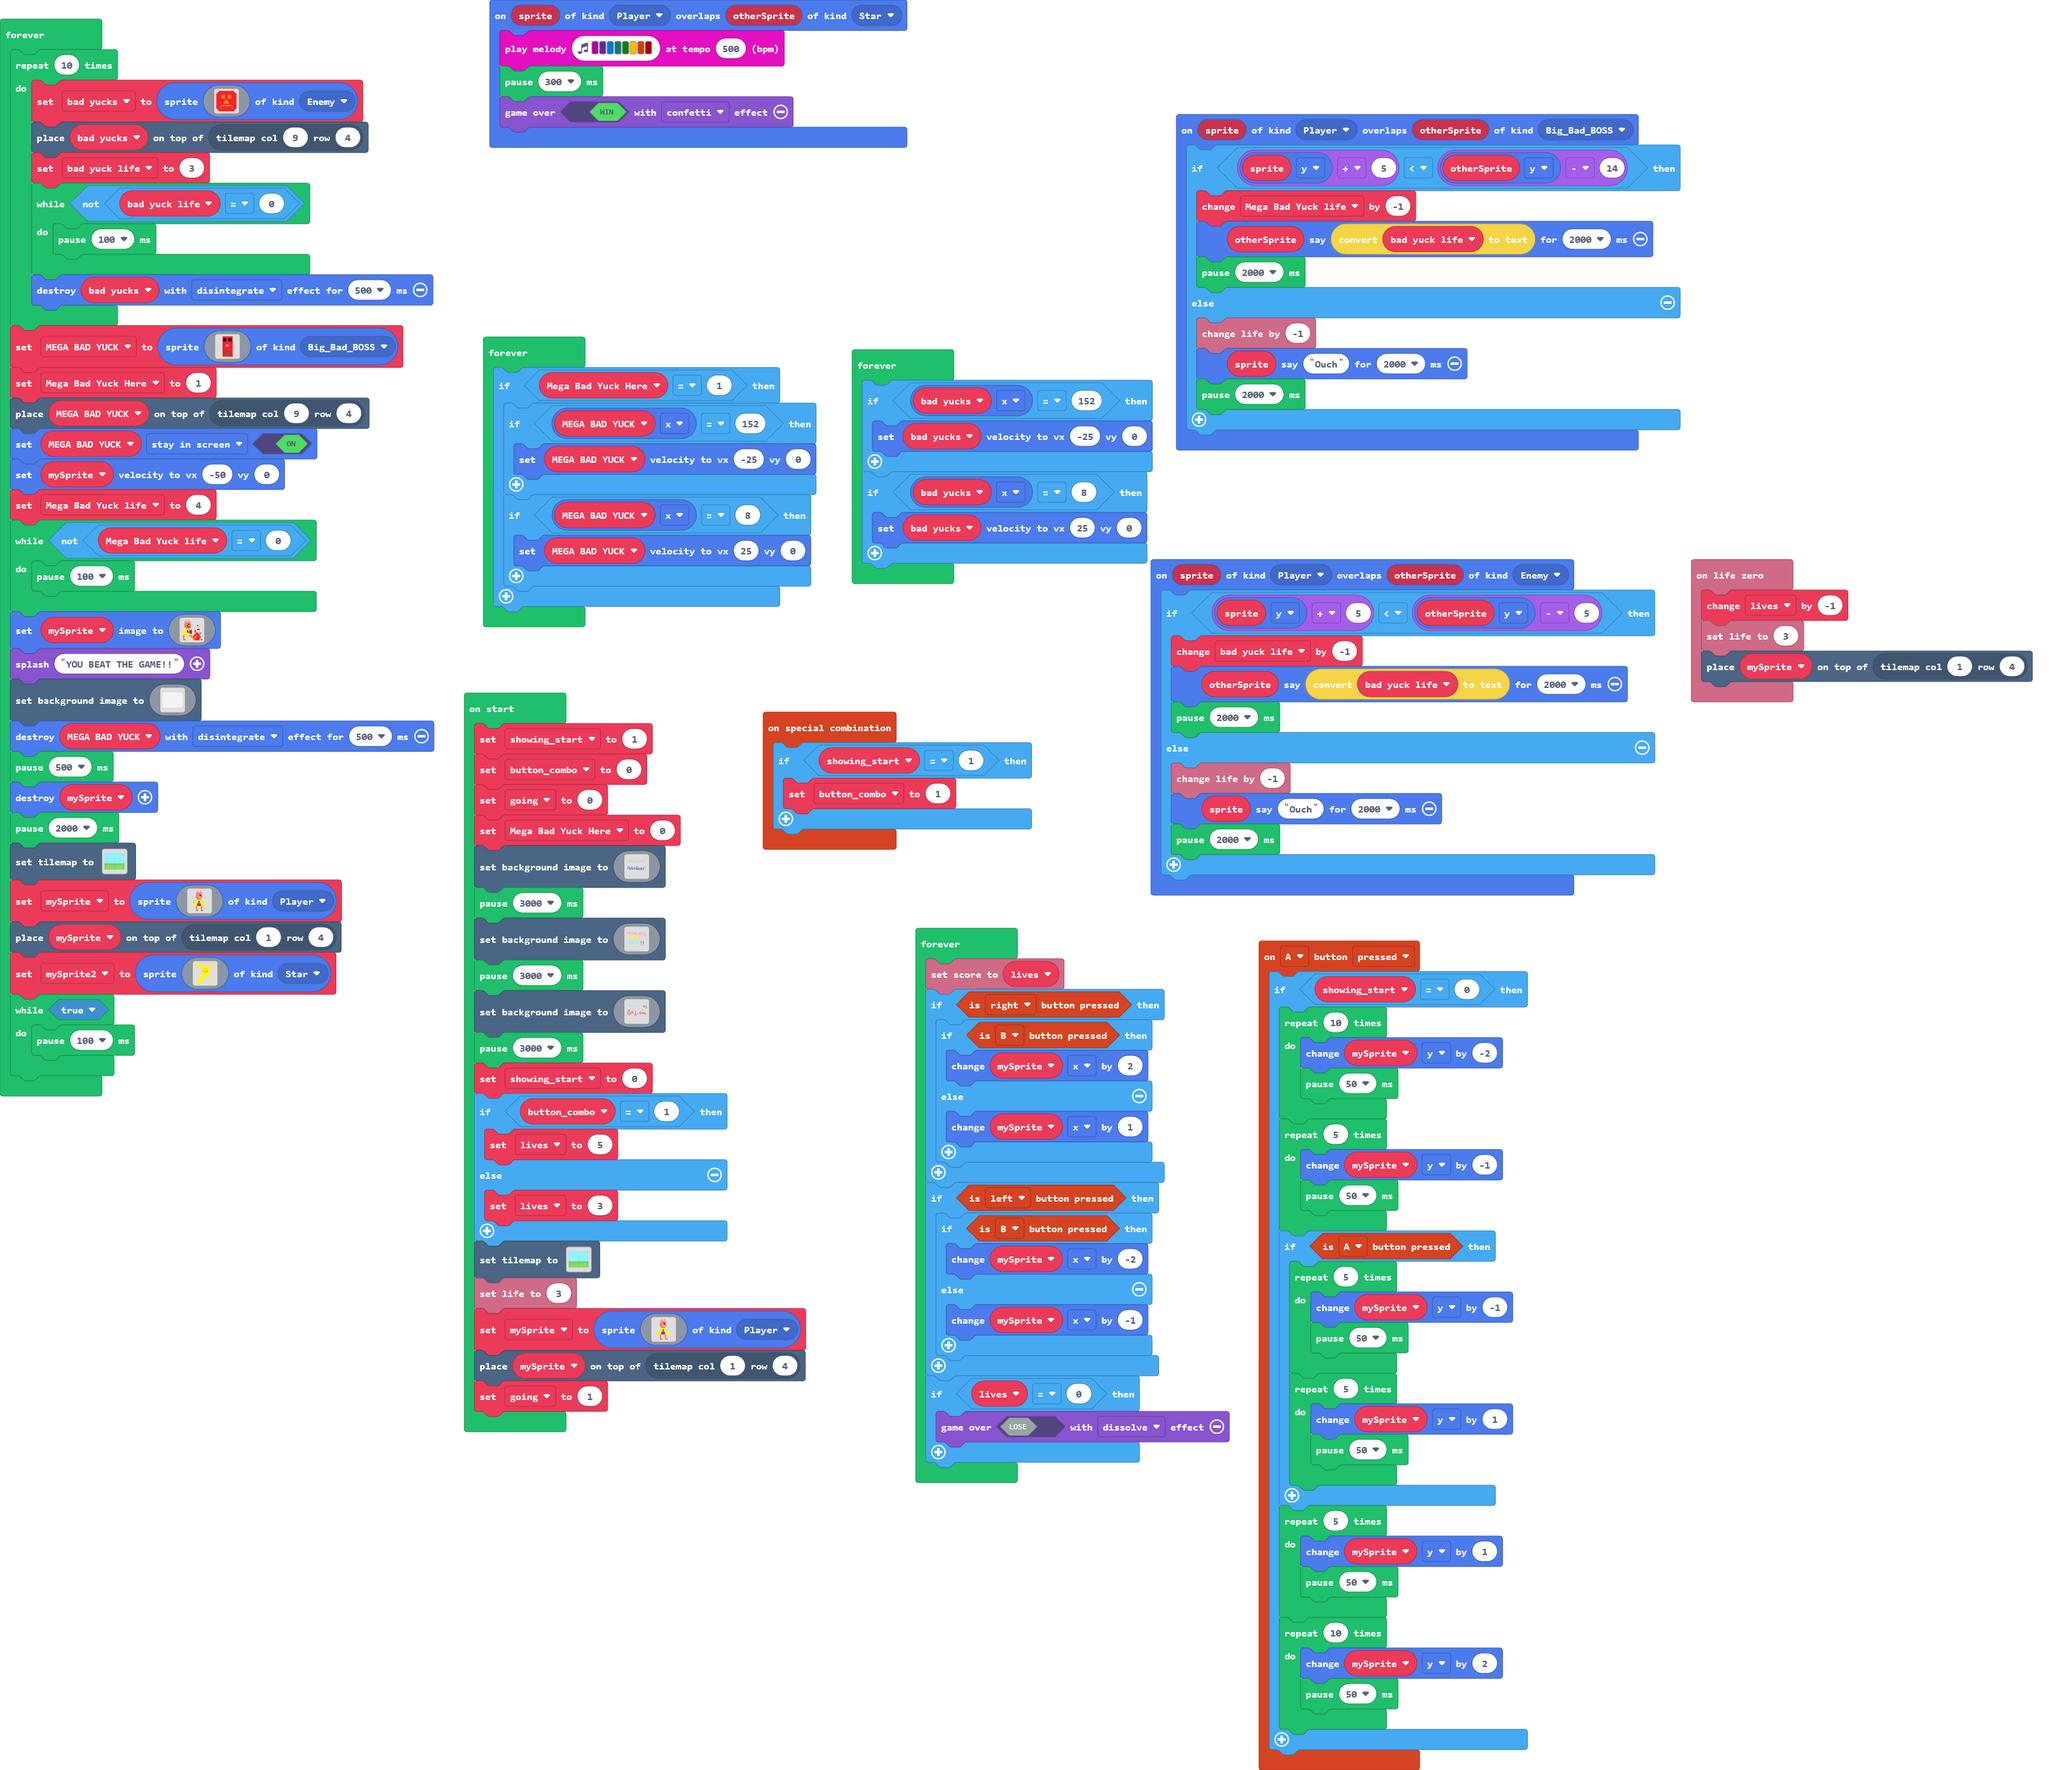
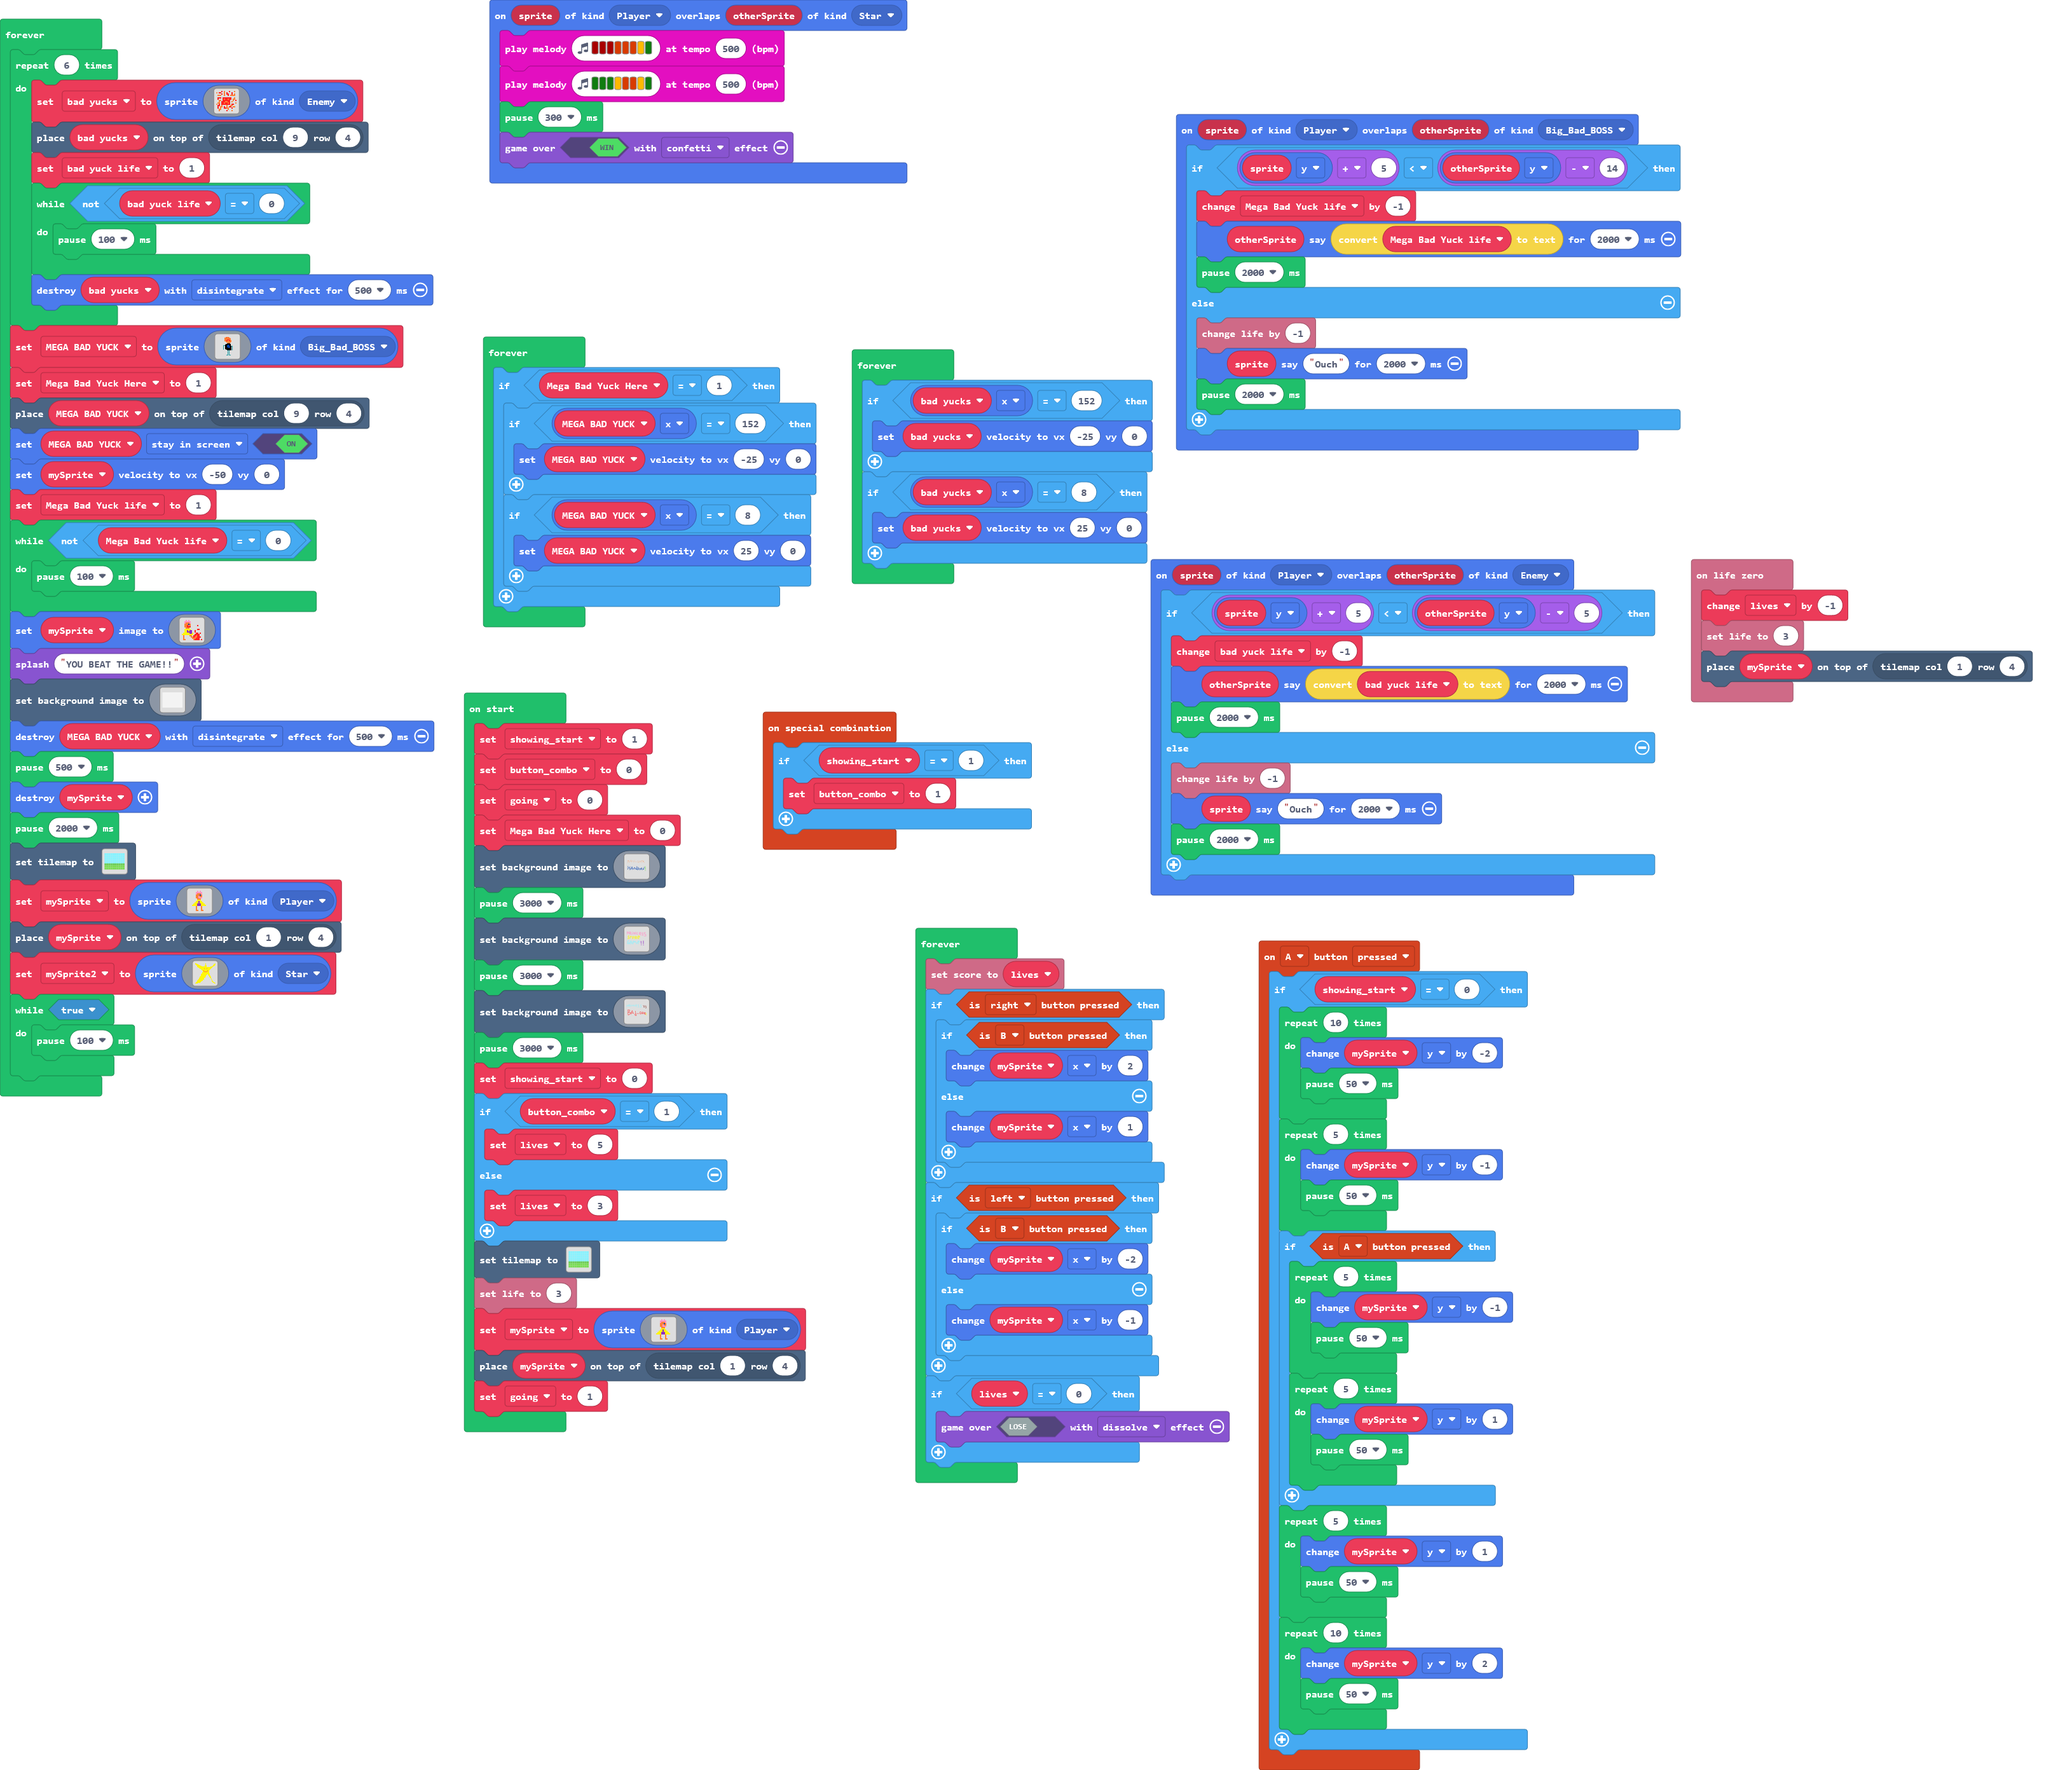
Update main.blocks, main.ts

Changed region(s): [[0.2177, 0.0, 0.4353, 0.125], [0.7152, 0.125, 0.8396, 0.1562]]

diff --git a/main.ts b/main.ts
@@ -40,7 +40,7 @@ info.onLifeZero(function () {
 sprites.onOverlap(SpriteKind.Player, SpriteKind.Big_Bad_BOSS, function (sprite, otherSprite) {
     if (sprite.y + 5 < otherSprite.y - 14) {
         Mega_Bad_Yuck_life += -1
-        otherSprite.say(convertToText(bad_yuck_life), 2000)
+        otherSprite.say(convertToText(Mega_Bad_Yuck_life), 2000)
         pause(2000)
     } else {
         info.changeLifeBy(-1)
@@ -49,7 +49,8 @@ sprites.onOverlap(SpriteKind.Player, SpriteKind.Big_Bad_BOSS, function (sprite, 
     }
 })
 sprites.onOverlap(SpriteKind.Player, SpriteKind.Star, function (sprite, otherSprite) {
-    music.playMelody("C D E F G A B C5 ", 500)
+    music.playMelody("C5 C5 C5 B B B A G ", 500)
+    music.playMelody("G G G A B B A G ", 500)
     pause(300)
     game.over(true, effects.confetti)
 })
@@ -489,71 +490,71 @@ mySprite = sprites.create(img`
 tiles.placeOnTile(mySprite, tiles.getTileLocation(1, 4))
 going = 1
 forever(function () {
-    for (let index = 0; index < 10; index++) {
+    for (let index = 0; index < 6; index++) {
         bad_yucks = sprites.create(img`
-            . . 2 2 2 2 2 2 2 2 2 2 2 2 . . 
-            . 2 2 2 2 2 2 2 2 2 2 2 2 2 2 . 
-            2 2 2 2 2 2 2 2 2 2 2 2 2 2 2 2 
-            2 2 2 2 4 4 4 2 2 4 4 4 2 2 2 2 
-            2 2 2 2 4 4 4 2 2 4 4 4 2 2 2 2 
-            2 2 2 2 4 4 4 2 2 4 4 4 2 2 2 2 
-            2 2 2 2 2 2 2 2 2 2 2 2 2 2 2 2 
-            2 2 2 2 2 2 2 4 4 2 2 2 2 2 2 2 
-            2 2 2 2 2 2 4 4 4 4 2 2 2 2 2 2 
-            2 2 2 2 2 2 4 4 4 4 2 2 2 2 2 2 
-            2 2 2 2 2 2 2 2 2 2 2 2 2 2 2 2 
-            2 2 2 2 4 4 4 4 4 4 4 4 2 2 2 2 
-            2 2 2 4 2 2 2 2 2 2 2 2 4 2 2 2 
-            2 2 2 4 2 2 2 2 2 2 2 2 4 2 2 2 
-            . 2 2 2 2 2 2 2 2 2 2 2 2 2 2 . 
-            . . 2 2 2 2 2 2 2 2 2 2 2 2 . . 
+            . . . . 2 . 4 . . . 2 . . . 4 . 
+            4 . 2 2 . . 4 . 2 . . . 2 . . . 
+            . . . . 2 . 4 . 2 2 . . 2 . 4 . 
+            . 4 4 4 . . 4 . . 2 . 4 4 4 4 . 
+            . . . . . . . . . . . . . . . . 
+            . 2 2 2 . 2 2 2 2 2 2 2 . . 4 . 
+            . 2 . . . 2 4 2 2 4 2 2 . 4 4 . 
+            . . 4 4 . 2 2 2 2 2 2 . . 4 . 2 
+            . . 4 . 2 2 2 4 4 2 2 . 4 . . . 
+            . 4 4 . 2 2 4 2 2 4 2 . . . . 4 
+            4 . 2 . 2 2 2 2 2 2 2 . 2 2 . . 
+            . 2 2 . 4 . . . 4 . . 4 4 . . . 
+            . 2 . 4 4 . 2 . 4 . 2 2 . 4 4 . 
+            . 2 . 4 . . 2 2 4 4 . . 2 . . . 
+            . . 4 4 . . . . . 4 . . . . . . 
+            . . 4 . . . . . 2 . . . 4 . . . 
             `, SpriteKind.Enemy)
         tiles.placeOnTile(bad_yucks, tiles.getTileLocation(9, 4))
-        bad_yuck_life = 3
+        bad_yuck_life = 1
         while (!(bad_yuck_life == 0)) {
             pause(100)
         }
         bad_yucks.destroy(effects.disintegrate, 500)
     }
     MEGA_BAD_YUCK = sprites.create(img`
-        2 2 2 2 2 2 2 2 2 2 2 2 2 2 2 2 
-        2 2 2 2 2 2 2 2 2 2 2 2 2 2 2 2 
-        2 2 2 2 2 2 2 2 2 2 2 2 2 2 2 2 
-        2 f f f f f 2 2 2 f f f f f 2 2 
-        2 f f f f f 2 2 2 f f f f f 2 2 
-        2 f f f f f 2 2 2 f f f f f 2 2 
-        2 f f f f f 2 2 2 f f f f f 2 2 
-        2 f f f f f 2 2 2 f f f f f 2 2 
-        2 2 2 2 2 2 2 2 2 2 2 2 2 2 2 2 
-        2 2 2 2 2 2 2 2 2 2 2 2 2 2 2 2 
-        2 2 2 2 2 2 2 2 2 2 2 2 2 2 2 2 
-        2 2 2 2 2 2 2 2 2 2 2 2 2 2 2 2 
-        2 2 2 2 2 2 2 3 2 2 2 2 2 2 2 2 
-        2 2 2 2 2 2 3 3 3 2 2 2 2 2 2 2 
-        2 2 2 2 2 3 3 3 3 3 2 2 2 2 2 2 
-        2 2 2 2 2 3 3 3 3 3 2 2 2 2 2 2 
-        2 2 2 2 2 2 2 2 2 2 2 2 2 2 2 2 
-        2 2 2 2 2 2 2 2 2 2 2 2 2 2 2 2 
-        2 2 2 2 2 2 2 2 2 2 2 2 2 2 2 2 
-        2 2 2 2 2 2 2 2 2 2 2 2 2 2 2 2 
-        2 2 2 2 2 2 2 2 2 2 2 2 2 2 2 2 
-        2 2 2 2 e e e e e 2 2 2 2 2 2 2 
-        2 2 2 2 e e e e e e e 2 2 2 2 2 
-        2 2 2 e e e e e e e e e 2 2 2 2 
-        2 e e e e e e e e e e e e 2 2 2 
-        2 e e e e e e 2 e e e e e 2 2 2 
-        2 e e e e e 2 2 2 e e e e e e 2 
-        2 e e e 2 2 2 2 2 2 e e e e e 2 
-        2 e e e 2 2 2 2 2 2 2 e e e e 2 
-        2 2 2 2 2 2 2 2 2 2 2 2 2 2 2 2 
-        2 2 2 2 2 2 2 2 2 2 2 2 2 2 2 2 
-        2 2 2 2 2 2 2 2 2 2 2 2 2 2 2 2 
+        . . . . . . . . . . . . . . . . 
+        . . . . . 4 4 4 4 4 . . . . . . 
+        . . . 4 4 4 2 4 4 2 4 4 . . . . 
+        . . . 4 4 4 4 4 4 4 4 4 4 . . . 
+        . . . 4 4 4 4 4 4 4 4 4 4 . . . 
+        . . . 4 4 4 4 2 2 2 2 4 4 . . . 
+        . . . 4 4 4 2 2 4 4 2 2 4 4 . . 
+        . . . 4 4 4 2 4 4 4 4 2 4 4 . . 
+        . . . . . 4 4 4 4 4 4 4 4 4 . . 
+        . . . . . . 4 4 4 4 4 4 4 . . . 
+        . . . . . . . . 4 4 4 4 . . . . 
+        . . . . . . . f f f f f . . . . 
+        . . . . . f f f f f f f f . . . 
+        . . . . f f f f 8 8 f f f . . . 
+        . 6 6 6 f f f 8 8 8 8 f f . . . 
+        . 6 . . f f f 8 8 8 8 f f f 6 6 
+        . 6 . . f f f 8 8 8 8 8 f f . 6 
+        . 6 . . f f f f 8 8 8 8 f f . 6 
+        . 6 . . f f f f f f f f f f . 6 
+        . 6 . . f f f f f f f f f f . 6 
+        . 6 . . . f f f f f f f f f . 6 
+        . . . . . . . f f f f f f f . 6 
+        . . . . . . . . 6 . 6 . . . . . 
+        . . . . . . . . 6 . 6 . . . . . 
+        . . . . . . . . 6 . 6 . . . . . 
+        . . . . . . . . 6 . 6 . . . . . 
+        . . . . . . . . 6 . 6 . . . . . 
+        . . . . . . . . 6 . 6 . . . . . 
+        . . . . . . . . 6 . 6 . . . . . 
+        . . . . . . 6 6 6 . 6 6 6 . . . 
+        . . . . . . . . . . . . . . . . 
+        . . . . . . . . . . . . . . . . 
         `, SpriteKind.Big_Bad_BOSS)
     Mega_Bad_Yuck_Here = 1
     tiles.placeOnTile(MEGA_BAD_YUCK, tiles.getTileLocation(9, 4))
     MEGA_BAD_YUCK.setFlag(SpriteFlag.StayInScreen, true)
     mySprite.setVelocity(-50, 0)
-    Mega_Bad_Yuck_life = 4
+    Mega_Bad_Yuck_life = 1
     while (!(Mega_Bad_Yuck_life == 0)) {
         pause(100)
     }
